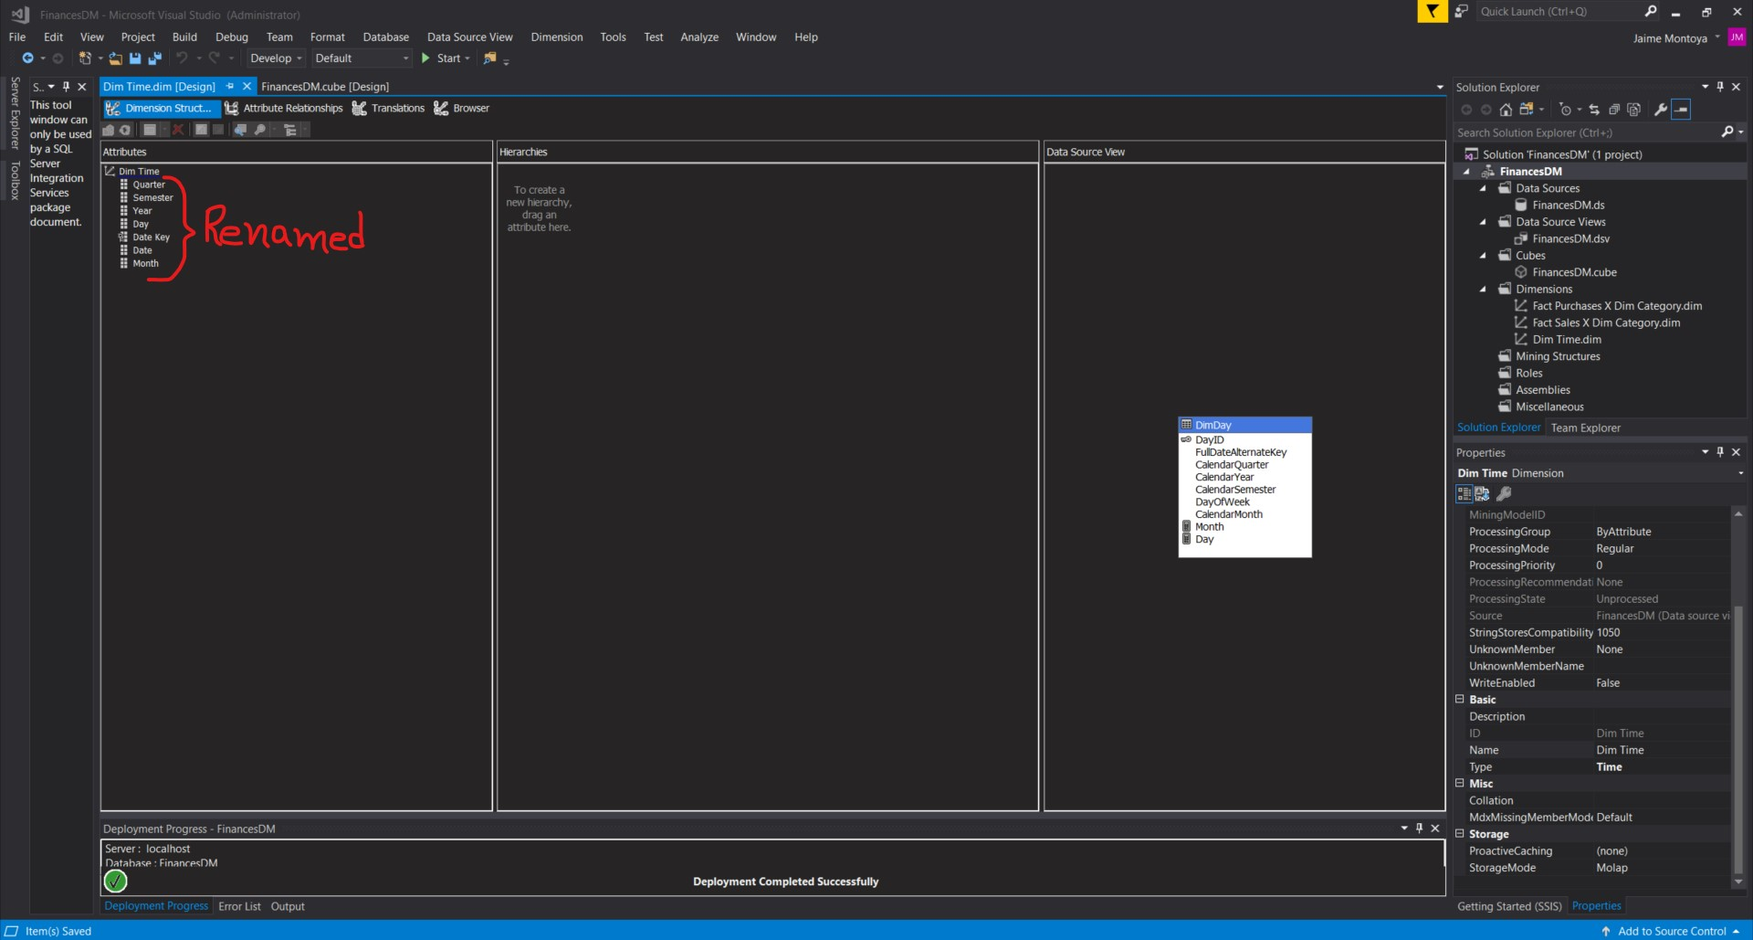
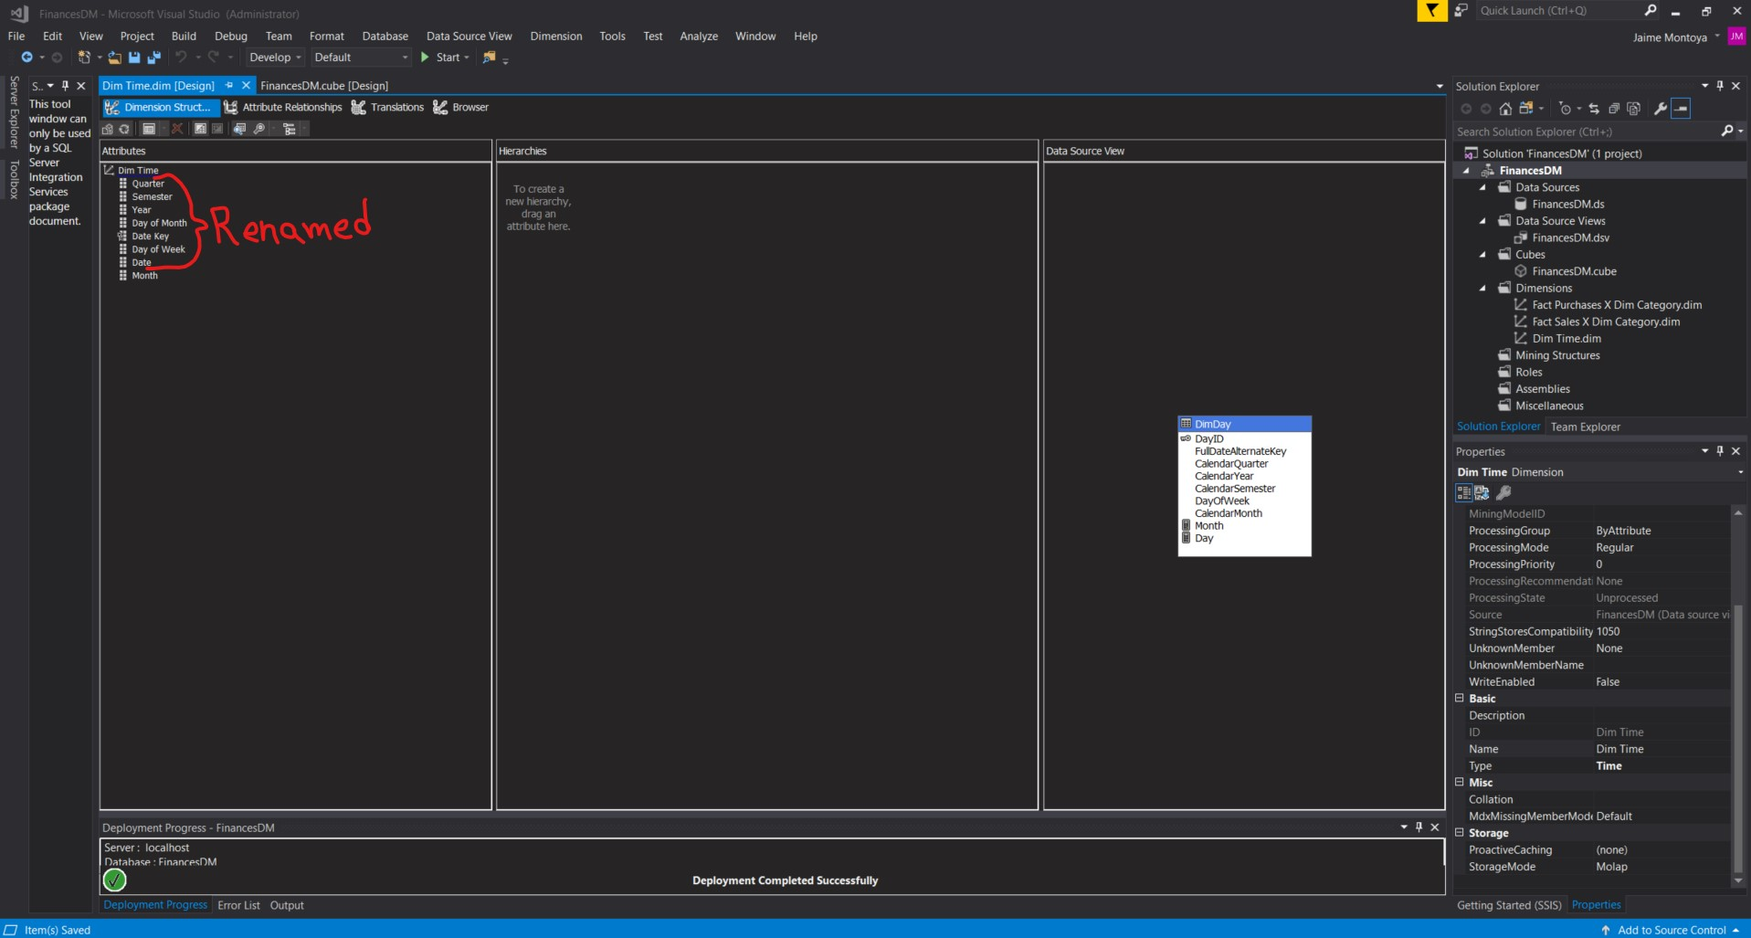
Update image.

diff --git a/blog/2023/12/31/06/14/book-info-20231231-0614.php b/blog/2023/12/31/06/14/book-info-20231231-0614.php
@@ -17,8 +17,8 @@ WHEN CalendarMonth = 11 THEN 'November'
 WHEN CalendarMonth = 12 THEN 'December'
 END
 </pre>		   
-		   </td></tr><tr><td>Day</td><td><span class=\"cod\">CONVERT(int, RIGHT(DayID, 2))</span></td></tr></table><p>I created the <span class=\"cod\">Named Calculation</span> for <span class=\"cod\">Month</span>:</p><div><img src=\"/blog/2023/12/31/06/14/img/createNamedCalculationForMonth.jpg\" alt=\"Create Named Calculation for Month\" width=\"1920\" height=\"1030\"></div><p>I created the <span class=\"cod\">Named Calculation</span> for <span class=\"cod\">Day</span>:</p><div><img src=\"/blog/2023/12/31/06/14/img/createNamedCalculationForDay.jpg\" alt=\"Create Named Calculation for Day\" width=\"1920\" height=\"1026\"></div><p>The new <span class=\"cod\">Named Calculations</span> appeared in the <span class=\"cod\">FinancesDM.dsv Data Source View</span> diagram:</p><div><img src=\"/blog/2023/12/31/06/14/img/calculatedColumnsInDataSourceView.jpg\" alt=\"Calculated columns in Data Source View\" width=\"1919\" height=\"1030\"></div><p>I right-clicked the <span class=\"cod\">DimDay</span> table and clicked <span class=\"cod\">Explore Data</span>:</p><div><img src=\"/blog/2023/12/31/06/14/img/exploreDataFromDataSourceView.jpg\" alt=\"Explore Data from Data Source View\" width=\"1916\" height=\"1028\"></div><p>The <span class=\"cod\">Explore DimDay Table</span> tab appeared with the corresponding results from the view:</p><div><img src=\"/blog/2023/12/31/06/14/img/exploreDimDayTable.jpg\" alt=\"Explore DimDay table\" width=\"1919\" height=\"1030\"></div><p>The results above were exactly the same as when running <span class=\"cod\">SELECT * FROM [Finances].[dbo].[DimDay]</span> from <span class=\"cod\">SQL Server Management Studio</span>, except for the two <span class=\"cod\">Calculated Columns</span> (<span class=\"cod\">Month</span> and <span class=\"cod\">Day</span>):</p><div><img src=\"/blog/2023/12/31/06/14/img/exploreDimDayTableDataFromSQLServerManagementStudio.jpg\" alt=\"Explore DimDay table data from SQL Server Management Studio\" width=\"1920\" height=\"1029\"></div><p>I double-clicked <span class=\"cod\">FinancesDM.cube</span> to open the <span class=\"cod\">FinancesDM.cube [Design]</span> tab. The <span class=\"cod\">Calculated Columns</span> were included in the cube diagram:</p><div><img src=\"/blog/2023/12/31/06/14/img/includeCalculatedColumnsInCubeDiagram.jpg\" alt=\"Include Calculated Columns in cube diagram\" width=\"1917\" height=\"1028\"></div><p>I right-clicked <span class=\"cod\">Dim Time.dim</span> and clicked <span class=\"cod\">Delete</span>:</p><div><img src=\"/blog/2023/12/31/06/14/img/deleteTimeDimension.jpg\" alt=\"Delete Time dimension\" width=\"1918\" height=\"1030\"></div><p>I clicked <span class=\"cod\">OK</span> to delete the <span class=\"cod\">Dim Time</span> object:</p><div><img src=\"/blog/2023/12/31/06/14/img/deleteDimTimeObject.jpg\" alt=\"Delete Dim Time object\" width=\"1918\" height=\"1028\"></div><p>I right-clicked the <span class=\"cod\">Dimensions</span> entry in the <span class=\"cod\">Solution Explorer</span> window, and selected <span class=\"cod\">New Dimension</span> from the context menu:</p><div><img src=\"/blog/2023/12/31/06/14/img/createNewTimeDimension.jpg\" alt=\"Create new Time dimension\" width=\"1922\" height=\"1080\"></div><p>The <span class=\"cod\">Dimension Wizard</span> dialog box appeared. I clicked <span class=\"cod\">Next</span>:</p><div><img src=\"/blog/2023/12/31/06/14/img/startDimensionWizard.jpg\" alt=\"Start Dimension Wizard\" width=\"1918\" height=\"1029\"></div><p>The <span class=\"cod\">Select Creation Method</span> page of the wizard appeared. I left the <span class=\"cod\">Use an existing table</span> item selected and clicked <span class=\"cod\">Next</span>:</p><div><img src=\"/blog/2023/12/31/06/14/img/useAnExistingTableToCreateDimension.jpg\" alt=\"Use an existing table to create dimension\" width=\"1919\" height=\"1028\"></div><p>The <span class=\"cod\">Specify Source Information</span> page appeared. The <span class=\"cod\">FinancesDM</span> data source view was already selected. I selected <span class=\"cod\">DimDay</span> from the <span class=\"cod\">Main table</span> drop-down list. <span class=\"cod\">DayID</span> was selected as the first and only <span class=\"cod\">Key column</span>. I selected <span class=\"cod\">DayID</span> from the drop-down list at the bottom. I clicked <span class=\"cod\">Next</span>:</p><div><img src=\"/blog/2023/12/31/06/14/img/specifySourceInformationForTimeDimension.jpg\" alt=\"Specify Source Information for Time dimension\" width=\"1917\" height=\"1031\"></div><p>The <span class=\"cod\">Select Dimension Attributes</span> page appeared. I left <span class=\"cod\">Day ID</span> checked and also checked <span class=\"cod\">Full Date Alternate Key</span>, <span class=\"cod\">Calendar Quarter</span>, <span class=\"cod\">Calendar Year</span>, <span class=\"cod\">Calendar Semester</span>, <span class=\"cod\">Day Of Week</span>, <span class=\"cod\">Month</span>, and <span class=\"cod\">Day</span>. I clicked in the <span class=\"cod\">Attribute Type column</span> across from <span class=\"cod\">Day ID</span>. I clicked the drop-down arrow. I expanded the <span class=\"cod\">Date</span> entry. I expanded the <span class=\"cod\">Calendar</span> entry. I selected <span class=\"cod\">Date</span> and clicked <span class=\"cod\">OK</span>:</p><div><img src=\"/blog/2023/12/31/06/14/img/defineAttributeTypeForDayID.jpg\" alt=\"Define Attribute Type for Day ID\" width=\"1916\" height=\"1029\"></div><p>I clicked in the <span class=\"cod\">Attribute Type column</span> across from <span class=\"cod\">Full Date Alternate Key</span>. I clicked the drop-down arrow. I expanded the <span class=\"cod\">Date</span> entry. I expanded the <span class=\"cod\">Calendar</span> entry. I selected <span class=\"cod\">Date</span> and clicked <span class=\"cod\">OK</span>:</p><div><img src=\"/blog/2023/12/31/06/14/img/selectDateAttributeType.jpg\" alt=\"Select Date Attribute Type\" width=\"1916\" height=\"1029\"></div><p>I clicked in the <span class=\"cod\">Attribute Type</span> column across from <span class=\"cod\">Calendar Quarter</span>. I clicked the drop-down arrow. I expanded the <span class=\"cod\">Date</span> entry. I expanded the <span class=\"cod\">Calendar</span> entry. I selected <span class=\"cod\">Quarter</span> and clicked <span class=\"cod\">OK</span>:</p><div><img src=\"/blog/2023/12/31/06/14/img/selectQuarterAttributeType.jpg\" alt=\"Select Quarter Attribute Type\" width=\"1917\" height=\"1031\"></div><p>I clicked in the <span class=\"cod\">Attribute Type</span> column across from <span class=\"cod\">Calendar Year</span>. I clicked the drop-down arrow. I expanded the <span class=\"cod\">Date</span> entry. I expanded the <span class=\"cod\">Calendar</span> entry. I selected <span class=\"cod\">Year</span> and clicked <span class=\"cod\">OK</span>:</p><div><img src=\"/blog/2023/12/31/06/14/img/selectYearAttributeTypeForDimension.jpg\" alt=\"Select Year Attribute Type for Dimension\" width=\"1916\" height=\"1030\"></div><p>I clicked in the <span class=\"cod\">Attribute Type</span> column across from <span class=\"cod\">Calendar Semester</span>. I clicked the drop-down arrow. I expanded the <span class=\"cod\">Date</span> entry. I expanded the <span class=\"cod\">Calendar</span> entry. I selected <span class=\"cod\">Half Year</span> and clicked <span class=\"cod\">OK</span>:</p><div><img src=\"/blog/2023/12/31/06/14/img/selectHalfYearAttributeTypeForDimension.jpg\" alt=\"Select Half Year Attribute Type for Dimension\" width=\"1919\" height=\"1028\"></div><p>I clicked in the <span class=\"cod\">Attribute Type</span> column across from <span class=\"cod\">Day Of Week</span>. I clicked the drop-down arrow. I expanded the <span class=\"cod\">Date</span> entry. I expanded the <span class=\"cod\">Calendar</span> entry. I selected <span class=\"cod\">Day of Week</span> and clicked <span class=\"cod\">OK</span>:</p><div><img src=\"/blog/2023/12/31/06/14/img/selectDayOfWeekAttributeTypeForDimension.jpg\" alt=\"Select Month Attribute Type for Dimension\" width=\"1919\" height=\"1026\"></div><p>I clicked in the <span class=\"cod\">Attribute Type</span> column across from <span class=\"cod\">Month</span>. I clicked the drop-down arrow. I expanded the <span class=\"cod\">Date</span> entry. I expanded the <span class=\"cod\">Calendar</span> entry. I selected <span class=\"cod\">Month</span> and clicked <span class=\"cod\">OK</span>:</p><div><img src=\"/blog/2023/12/31/06/14/img/selectMonthAttributeTypeForDimension.jpg\" alt=\"Select Month Attribute Type for Dimension\" width=\"1915\" height=\"1025\"></div><p>I clicked in the <span class=\"cod\">Attribute Type</span> column across from <span class=\"cod\">Day</span>. I clicked the drop-down arrow. I expanded the <span class=\"cod\">Date</span> entry. I expanded the <span class=\"cod\">Calendar</span> entry. I selected <span class=\"cod\">Day of Month</span> and clicked <span class=\"cod\">OK</span>:</p><div><img src=\"/blog/2023/12/31/06/14/img/selectDayOfMonthAttributeForDimension.jpg\" alt=\"Select Day of Month Attribute Type for Dimension\" width=\"1917\" height=\"1029\"></div><p>I clicked <span class=\"cod\">Next</span>:</p><div><img src=\"/blog/2023/12/31/06/14/img/clickNextAfterSelectingTimeDimensionAttributes.jpg\" alt=\"Click Next after selecting Time Dimension attributes\" width=\"1917\" height=\"1030\"></div><p>The <span class=\"cod\">Completing the Wizard</span> page appeared. I changed the name to <span class=\"cod\">Dim Time</span>. I clicked <span class=\"cod\">Finish</span>:</p><div><img src=\"/blog/2023/12/31/06/14/img/clickFinishToCompleteCreationOfTimeDimension.jpg\" alt=\"Click Finish to complete creation of Time Dimension\" width=\"1918\" height=\"1029\"></div><p>The <span class=\"cod\">Dimension Design</span> tab appeared with the <span class=\"cod\">Dim Time</span> dimension:</p><div><img src=\"/blog/2023/12/31/06/14/img/timeDimensionDesignTabForNewTimeDimension.jpg\" alt=\"Time Dimension Design tab for new Time Dimension\" width=\"1917\" height=\"1028\"></div><p>I right-clicked the entry for <span class=\"cod\">Day ID</span> in the <span class=\"cod\">Attributes</span> area, and selected <span class=\"cod\">Rename</span> from the context menu:</p><div><img src=\"/blog/2023/12/31/06/14/img/renameDayIDAttribute.jpg\" alt=\"Rename Day ID Attribute\" width=\"1914\" height=\"1028\"></div><p>I entered <span class=\"cod\">Date Key</span> for the name of this attribute, and pressed <span class=\"cod\">ENTER</span>:</p><div><img src=\"/blog/2023/12/31/06/14/img/dayIDRenamedToDateKey.jpg\" alt=\"Day ID renamed to Date Key\" width=\"1918\" height=\"1028\"></div><p>I repeated the steps above to rename the other attributes as follows:</p><table><tbody><tr><th>Old name</th><th>New name</th></tr><tr><td>Calendar Quarter</td><td>Quarter</td></tr><tr><td>Calendar Semester</td><td>Semester</td></tr><tr><td>Calendar Year</td><td>Year</td></tr><tr><td>Day</td><td>Day of Month</td></tr><tr><td>Day Of Week</td><td>Day of Week</td></tr><tr><td>Full Date Alternate Key</td><td>Date</td></tr></tbody></table>
+		   </td></tr><tr><td>Day</td><td><span class=\"cod\">CONVERT(int, RIGHT(DayID, 2))</span></td></tr></table><p>I created the <span class=\"cod\">Named Calculation</span> for <span class=\"cod\">Month</span>:</p><div><img src=\"/blog/2023/12/31/06/14/img/createNamedCalculationForMonth.jpg\" alt=\"Create Named Calculation for Month\" width=\"1920\" height=\"1030\"></div><p>I created the <span class=\"cod\">Named Calculation</span> for <span class=\"cod\">Day</span>:</p><div><img src=\"/blog/2023/12/31/06/14/img/createNamedCalculationForDay.jpg\" alt=\"Create Named Calculation for Day\" width=\"1920\" height=\"1026\"></div><p>The new <span class=\"cod\">Named Calculations</span> appeared in the <span class=\"cod\">FinancesDM.dsv Data Source View</span> diagram:</p><div><img src=\"/blog/2023/12/31/06/14/img/calculatedColumnsInDataSourceView.jpg\" alt=\"Calculated columns in Data Source View\" width=\"1919\" height=\"1030\"></div><p>I right-clicked the <span class=\"cod\">DimDay</span> table and clicked <span class=\"cod\">Explore Data</span>:</p><div><img src=\"/blog/2023/12/31/06/14/img/exploreDataFromDataSourceView.jpg\" alt=\"Explore Data from Data Source View\" width=\"1916\" height=\"1028\"></div><p>The <span class=\"cod\">Explore DimDay Table</span> tab appeared with the corresponding results from the view:</p><div><img src=\"/blog/2023/12/31/06/14/img/exploreDimDayTable.jpg\" alt=\"Explore DimDay table\" width=\"1919\" height=\"1030\"></div><p>The results above were exactly the same as when running <span class=\"cod\">SELECT * FROM [Finances].[dbo].[DimDay]</span> from <span class=\"cod\">SQL Server Management Studio</span>, except for the two <span class=\"cod\">Calculated Columns</span> (<span class=\"cod\">Month</span> and <span class=\"cod\">Day</span>):</p><div><img src=\"/blog/2023/12/31/06/14/img/exploreDimDayTableDataFromSQLServerManagementStudio.jpg\" alt=\"Explore DimDay table data from SQL Server Management Studio\" width=\"1920\" height=\"1029\"></div><p>I double-clicked <span class=\"cod\">FinancesDM.cube</span> to open the <span class=\"cod\">FinancesDM.cube [Design]</span> tab. The <span class=\"cod\">Calculated Columns</span> were included in the cube diagram:</p><div><img src=\"/blog/2023/12/31/06/14/img/includeCalculatedColumnsInCubeDiagram.jpg\" alt=\"Include Calculated Columns in cube diagram\" width=\"1917\" height=\"1028\"></div><p>I right-clicked <span class=\"cod\">Dim Time.dim</span> and clicked <span class=\"cod\">Delete</span>:</p><div><img src=\"/blog/2023/12/31/06/14/img/deleteTimeDimension.jpg\" alt=\"Delete Time dimension\" width=\"1918\" height=\"1030\"></div><p>I clicked <span class=\"cod\">OK</span> to delete the <span class=\"cod\">Dim Time</span> object:</p><div><img src=\"/blog/2023/12/31/06/14/img/deleteDimTimeObject.jpg\" alt=\"Delete Dim Time object\" width=\"1918\" height=\"1028\"></div><p>I right-clicked the <span class=\"cod\">Dimensions</span> entry in the <span class=\"cod\">Solution Explorer</span> window, and selected <span class=\"cod\">New Dimension</span> from the context menu:</p><div><img src=\"/blog/2023/12/31/06/14/img/createNewTimeDimension.jpg\" alt=\"Create new Time dimension\" width=\"1922\" height=\"1080\"></div><p>The <span class=\"cod\">Dimension Wizard</span> dialog box appeared. I clicked <span class=\"cod\">Next</span>:</p><div><img src=\"/blog/2023/12/31/06/14/img/startDimensionWizard.jpg\" alt=\"Start Dimension Wizard\" width=\"1918\" height=\"1029\"></div><p>The <span class=\"cod\">Select Creation Method</span> page of the wizard appeared. I left the <span class=\"cod\">Use an existing table</span> item selected and clicked <span class=\"cod\">Next</span>:</p><div><img src=\"/blog/2023/12/31/06/14/img/useAnExistingTableToCreateDimension.jpg\" alt=\"Use an existing table to create dimension\" width=\"1919\" height=\"1028\"></div><p>The <span class=\"cod\">Specify Source Information</span> page appeared. The <span class=\"cod\">FinancesDM</span> data source view was already selected. I selected <span class=\"cod\">DimDay</span> from the <span class=\"cod\">Main table</span> drop-down list. <span class=\"cod\">DayID</span> was selected as the first and only <span class=\"cod\">Key column</span>. I selected <span class=\"cod\">DayID</span> from the drop-down list at the bottom. I clicked <span class=\"cod\">Next</span>:</p><div><img src=\"/blog/2023/12/31/06/14/img/specifySourceInformationForTimeDimension.jpg\" alt=\"Specify Source Information for Time dimension\" width=\"1917\" height=\"1031\"></div><p>The <span class=\"cod\">Select Dimension Attributes</span> page appeared. I left <span class=\"cod\">Day ID</span> checked and also checked <span class=\"cod\">Full Date Alternate Key</span>, <span class=\"cod\">Calendar Quarter</span>, <span class=\"cod\">Calendar Year</span>, <span class=\"cod\">Calendar Semester</span>, <span class=\"cod\">Day Of Week</span>, <span class=\"cod\">Month</span>, and <span class=\"cod\">Day</span>. I clicked in the <span class=\"cod\">Attribute Type column</span> across from <span class=\"cod\">Day ID</span>. I clicked the drop-down arrow. I expanded the <span class=\"cod\">Date</span> entry. I expanded the <span class=\"cod\">Calendar</span> entry. I selected <span class=\"cod\">Date</span> and clicked <span class=\"cod\">OK</span>:</p><div><img src=\"/blog/2023/12/31/06/14/img/defineAttributeTypeForDayID.jpg\" alt=\"Define Attribute Type for Day ID\" width=\"1916\" height=\"1029\"></div><p>I clicked in the <span class=\"cod\">Attribute Type column</span> across from <span class=\"cod\">Full Date Alternate Key</span>. I clicked the drop-down arrow. I expanded the <span class=\"cod\">Date</span> entry. I expanded the <span class=\"cod\">Calendar</span> entry. I selected <span class=\"cod\">Date</span> and clicked <span class=\"cod\">OK</span>:</p><div><img src=\"/blog/2023/12/31/06/14/img/selectDateAttributeType.jpg\" alt=\"Select Date Attribute Type\" width=\"1916\" height=\"1029\"></div><p>I clicked in the <span class=\"cod\">Attribute Type</span> column across from <span class=\"cod\">Calendar Quarter</span>. I clicked the drop-down arrow. I expanded the <span class=\"cod\">Date</span> entry. I expanded the <span class=\"cod\">Calendar</span> entry. I selected <span class=\"cod\">Quarter</span> and clicked <span class=\"cod\">OK</span>:</p><div><img src=\"/blog/2023/12/31/06/14/img/selectQuarterAttributeType.jpg\" alt=\"Select Quarter Attribute Type\" width=\"1917\" height=\"1031\"></div><p>I clicked in the <span class=\"cod\">Attribute Type</span> column across from <span class=\"cod\">Calendar Year</span>. I clicked the drop-down arrow. I expanded the <span class=\"cod\">Date</span> entry. I expanded the <span class=\"cod\">Calendar</span> entry. I selected <span class=\"cod\">Year</span> and clicked <span class=\"cod\">OK</span>:</p><div><img src=\"/blog/2023/12/31/06/14/img/selectYearAttributeTypeForDimension.jpg\" alt=\"Select Year Attribute Type for Dimension\" width=\"1916\" height=\"1030\"></div><p>I clicked in the <span class=\"cod\">Attribute Type</span> column across from <span class=\"cod\">Calendar Semester</span>. I clicked the drop-down arrow. I expanded the <span class=\"cod\">Date</span> entry. I expanded the <span class=\"cod\">Calendar</span> entry. I selected <span class=\"cod\">Half Year</span> and clicked <span class=\"cod\">OK</span>:</p><div><img src=\"/blog/2023/12/31/06/14/img/selectHalfYearAttributeTypeForDimension.jpg\" alt=\"Select Half Year Attribute Type for Dimension\" width=\"1919\" height=\"1028\"></div><p>I clicked in the <span class=\"cod\">Attribute Type</span> column across from <span class=\"cod\">Day Of Week</span>. I clicked the drop-down arrow. I expanded the <span class=\"cod\">Date</span> entry. I expanded the <span class=\"cod\">Calendar</span> entry. I selected <span class=\"cod\">Day of Week</span> and clicked <span class=\"cod\">OK</span>:</p><div><img src=\"/blog/2023/12/31/06/14/img/selectDayOfWeekAttributeTypeForDimension.jpg\" alt=\"Select Month Attribute Type for Dimension\" width=\"1919\" height=\"1026\"></div><p>I clicked in the <span class=\"cod\">Attribute Type</span> column across from <span class=\"cod\">Month</span>. I clicked the drop-down arrow. I expanded the <span class=\"cod\">Date</span> entry. I expanded the <span class=\"cod\">Calendar</span> entry. I selected <span class=\"cod\">Month</span> and clicked <span class=\"cod\">OK</span>:</p><div><img src=\"/blog/2023/12/31/06/14/img/selectMonthAttributeTypeForDimension.jpg\" alt=\"Select Month Attribute Type for Dimension\" width=\"1915\" height=\"1025\"></div><p>I clicked in the <span class=\"cod\">Attribute Type</span> column across from <span class=\"cod\">Day</span>. I clicked the drop-down arrow. I expanded the <span class=\"cod\">Date</span> entry. I expanded the <span class=\"cod\">Calendar</span> entry. I selected <span class=\"cod\">Day of Month</span> and clicked <span class=\"cod\">OK</span>:</p><div><img src=\"/blog/2023/12/31/06/14/img/selectDayOfMonthAttributeForDimension.jpg\" alt=\"Select Day of Month Attribute Type for Dimension\" width=\"1917\" height=\"1029\"></div><p>I clicked <span class=\"cod\">Next</span>:</p><div><img src=\"/blog/2023/12/31/06/14/img/clickNextAfterSelectingTimeDimensionAttributes.jpg\" alt=\"Click Next after selecting Time Dimension attributes\" width=\"1917\" height=\"1030\"></div><p>The <span class=\"cod\">Completing the Wizard</span> page appeared. I changed the name to <span class=\"cod\">Dim Time</span>. I clicked <span class=\"cod\">Finish</span>:</p><div><img src=\"/blog/2023/12/31/06/14/img/clickFinishToCompleteCreationOfTimeDimension.jpg\" alt=\"Click Finish to complete creation of Time Dimension\" width=\"1918\" height=\"1029\"></div><p>The <span class=\"cod\">Dimension Design</span> tab appeared with the <span class=\"cod\">Dim Time</span> dimension:</p><div><img src=\"/blog/2023/12/31/06/14/img/timeDimensionDesignTabForNewTimeDimension.jpg\" alt=\"Time Dimension Design tab for new Time Dimension\" width=\"1917\" height=\"1028\"></div><p>I right-clicked the entry for <span class=\"cod\">Day ID</span> in the <span class=\"cod\">Attributes</span> area, and selected <span class=\"cod\">Rename</span> from the context menu:</p><div><img src=\"/blog/2023/12/31/06/14/img/renameDayIDAttribute.jpg\" alt=\"Rename Day ID Attribute\" width=\"1914\" height=\"1028\"></div><p>I entered <span class=\"cod\">Date Key</span> for the name of this attribute, and pressed <span class=\"cod\">ENTER</span>:</p><div><img src=\"/blog/2023/12/31/06/14/img/dayIDRenamedToDateKey.jpg\" alt=\"Day ID renamed to Date Key\" width=\"1918\" height=\"1028\"></div><p>I repeated the steps above to rename the other attributes as follows:</p><table><tbody><tr><th>Old name</th><th>New name</th></tr><tr><td>Calendar Quarter</td><td>Quarter</td></tr><tr><td>Calendar Semester</td><td>Semester</td></tr><tr><td>Calendar Year</td><td>Year</td></tr><tr><td>Day</td><td>Day of Month</td></tr><tr><td>Day Of Week</td><td>Day of Week</td></tr><tr><td>Full Date Alternate Key</td><td>Date</td></tr></tbody></table><div><img src=\"/blog/2023/12/31/06/14/img/renameTimeAttributes.jpg\" alt=\"Rename Time Attributes\" width=\"1917\" height=\"1027\"></div>
 		   
 		   
-		   <div><img src=\"/blog/2023/12/31/06/14/img/renameTimeAttributes.jpg\" alt=\"Rename Time Attributes\" width=\"1920\" height=\"1029\"></div><p>I dragged the <span class=\"cod\">Year</span> item from the <span class=\"cod\">Attributes</span> column, and dropped it in the <span class=\"cod\">Hierarchies</span> area:</p><div><img src=\"/blog/2023/12/31/06/14/img/moveYearAttributeToHierarchy.jpg\" alt=\"Move Year Attribute to Hierarchy\" width=\"1920\" height=\"1030\"></div><p>I dragged the <span class=\"cod\">Semester</span> item from the <span class=\"cod\">Attributes</span> column, and dropped it on <span class=\"cod\">&lt;new level&gt;</span> in the <span class=\"cod\">Hierarchies</span> area:</p><div><img src=\"/blog/2023/12/31/06/14/img/moveSemesterAttributeToHierarchy.jpg\" alt=\"Move Semester Attribute to Hierarchy\" width=\"1916\" height=\"1029\"></div> <div>Published: 6:14 AM GMT · Dec 31, 2023</div>\n";
+		   <p>I dragged the <span class=\"cod\">Year</span> item from the <span class=\"cod\">Attributes</span> column, and dropped it in the <span class=\"cod\">Hierarchies</span> area:</p><div><img src=\"/blog/2023/12/31/06/14/img/moveYearAttributeToHierarchy.jpg\" alt=\"Move Year Attribute to Hierarchy\" width=\"1920\" height=\"1030\"></div><p>I dragged the <span class=\"cod\">Semester</span> item from the <span class=\"cod\">Attributes</span> column, and dropped it on <span class=\"cod\">&lt;new level&gt;</span> in the <span class=\"cod\">Hierarchies</span> area:</p><div><img src=\"/blog/2023/12/31/06/14/img/moveSemesterAttributeToHierarchy.jpg\" alt=\"Move Semester Attribute to Hierarchy\" width=\"1916\" height=\"1029\"></div> <div>Published: 6:14 AM GMT · Dec 31, 2023</div>\n";
 ?>
